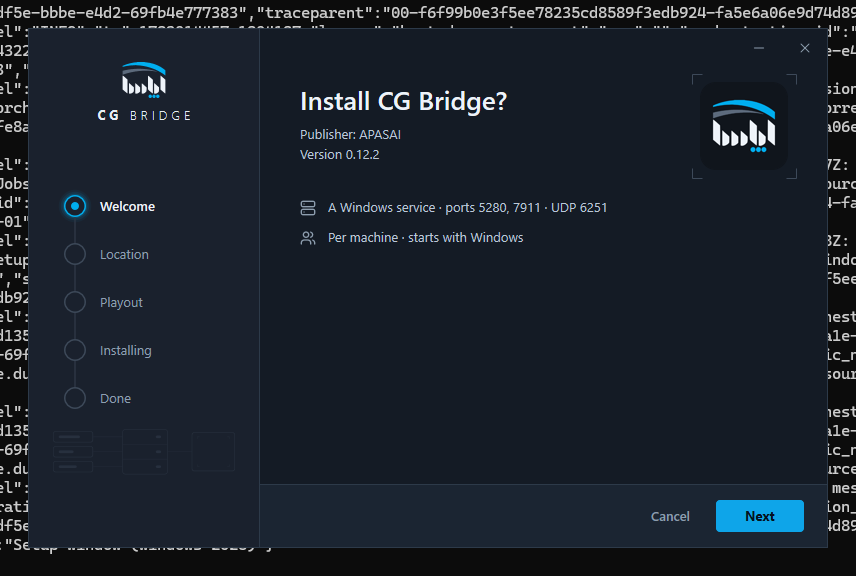
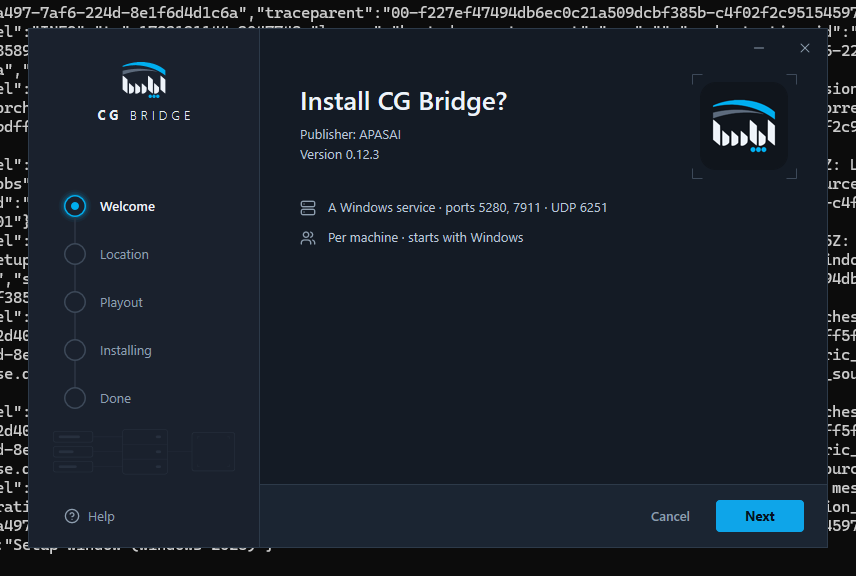
test(release): finalize 0.12.3 candidate [installers]

diff --git a/apps/runtime/tests/e2e/fixtures/runtime.ts b/apps/runtime/tests/e2e/fixtures/runtime.ts
@@ -804,6 +804,47 @@ export async function buildValidVcg(templateId = 'tpl-e2e-1'): Promise<Uint8Arra
  */
 export async function buildListFieldVcg(templateId = 'tpl-e2e-list'): Promise<Uint8Array> {
   const scene = fixtureScene();
+  const layer = scene.layers[0];
+  if (layer === undefined) throw new Error('fixture scene has no layer');
+  layer.children = [
+    ...layer.children,
+    {
+      id: 'el-ticker',
+      name: 'Ticker',
+      type: 'ticker',
+      transform: {
+        position: { x: 100, y: 900 },
+        size: { w: 1200, h: 72 },
+        scale: { x: 1, y: 1 },
+        rotation: 0,
+        anchor: { x: 0, y: 0 },
+      },
+      opacity: 1,
+      visible: true,
+      locked: false,
+      zIndex: 2,
+      font: {
+        family: 'Vazirmatn',
+        weight: 500,
+        style: 'normal',
+        size: 36,
+        lineHeight: 1.4,
+        letterSpacing: 0,
+      },
+      color: '#FFFFFF',
+      direction: 'rtl',
+      verticalAlign: 'middle',
+      speed: 120,
+      repeat: 'infinite',
+      cycleBoundary: 'seamless',
+      gap: 48,
+      separator: ' • ',
+      items: [
+        { id: 'i1', text: 'سلام دنیا' },
+        { id: 'i2', text: 'اخبار فوری' },
+      ],
+    },
+  ];
   scene.fields = [
     ...scene.fields,
     {
@@ -816,6 +857,13 @@ export async function buildListFieldVcg(templateId = 'tpl-e2e-list'): Promise<Ui
         { id: 'i2', text: 'اخبار فوری' },
       ],
     },
+  ];
+  // CG Control intentionally exposes only fields that drive a render target. Keep
+  // this fixture representative of a real ticker instead of relying on an orphaned
+  // authoring field that the operator form now correctly omits.
+  scene.bindings = [
+    ...scene.bindings,
+    { fieldId: '_tickerTexts', target: { kind: 'ticker-items', elementId: 'el-ticker' } },
   ];
   const fontDeps: readonly FontReference[] = scene.fonts;
   const assetIndex: readonly AssetEntry[] = [];
@@ -1334,6 +1382,10 @@ export async function buildNumberFieldVcg(templateId = 'tpl-e2e-number'): Promis
   scene.fields = [
     ...scene.fields,
     { id: 'fontSize', label: 'Font size', required: false, type: 'number', default: 5, step: 1 },
+  ];
+  scene.bindings = [
+    ...scene.bindings,
+    { fieldId: 'fontSize', target: { kind: 'transform', elementId: 'el-name', property: 'x' } },
   ];
   const fontDeps: readonly FontReference[] = scene.fonts;
   const assetIndex: readonly AssetEntry[] = [];

diff --git a/openspec/changes/prepare-0-12-3-installers/specs/desktop-delivery/spec.md b/openspec/changes/prepare-0-12-3-installers/specs/desktop-delivery/spec.md
@@ -20,8 +20,8 @@ SHALL be built from one commit and SHALL be required when updating a `0.12.2` st
 
 ### Requirement: The candidate proves delivery and remains unpublished
 
-The full local gate and E2E lane, Linux workspace/E2E and every applicable Windows installer, smoke and upgrade
-job SHALL pass. The exact installer artifacts SHALL be downloaded, checksummed and placed in the local handoff
+The full local gate and E2E lane SHALL pass, together with Linux workspace/E2E and every applicable Windows
+installer, smoke and upgrade job. The exact installer artifacts SHALL be downloaded, checksummed and placed in the local handoff
 folders. The candidate SHALL NOT create a tag, draft release or published release.
 
 #### Scenario: Delivery completes

diff --git a/openspec/changes/prepare-0-12-3-installers/tasks.md b/openspec/changes/prepare-0-12-3-installers/tasks.md
@@ -7,12 +7,12 @@ Lane: **FULL**
 - [x] 1.1 File `P-071` and this OpenSpec change.
 - [x] 1.2 Move all release-version sources and the regression pin to `0.12.3`.
 - [x] 1.3 Add the Persian `0.12.3` guide and require all three installers over `0.12.2`.
-- [ ] 1.4 Strict-validate the change and build/test the guide.
+- [x] 1.4 Strict-validate the change and build/test the guide.
 
 ## 2. Verification
 
-- [ ] 2.1 Run the full local gate.
-- [ ] 2.2 Run the complete local E2E lane.
+- [x] 2.1 Run the full local gate.
+- [x] 2.2 Run the complete local E2E lane.
 - [ ] 2.3 Push the exact candidate to `dev` and record green Linux workspace and E2E jobs.
 - [ ] 2.4 Record a green Desktop installer run, including the `0.11.6` upgrade acceptance.
 
